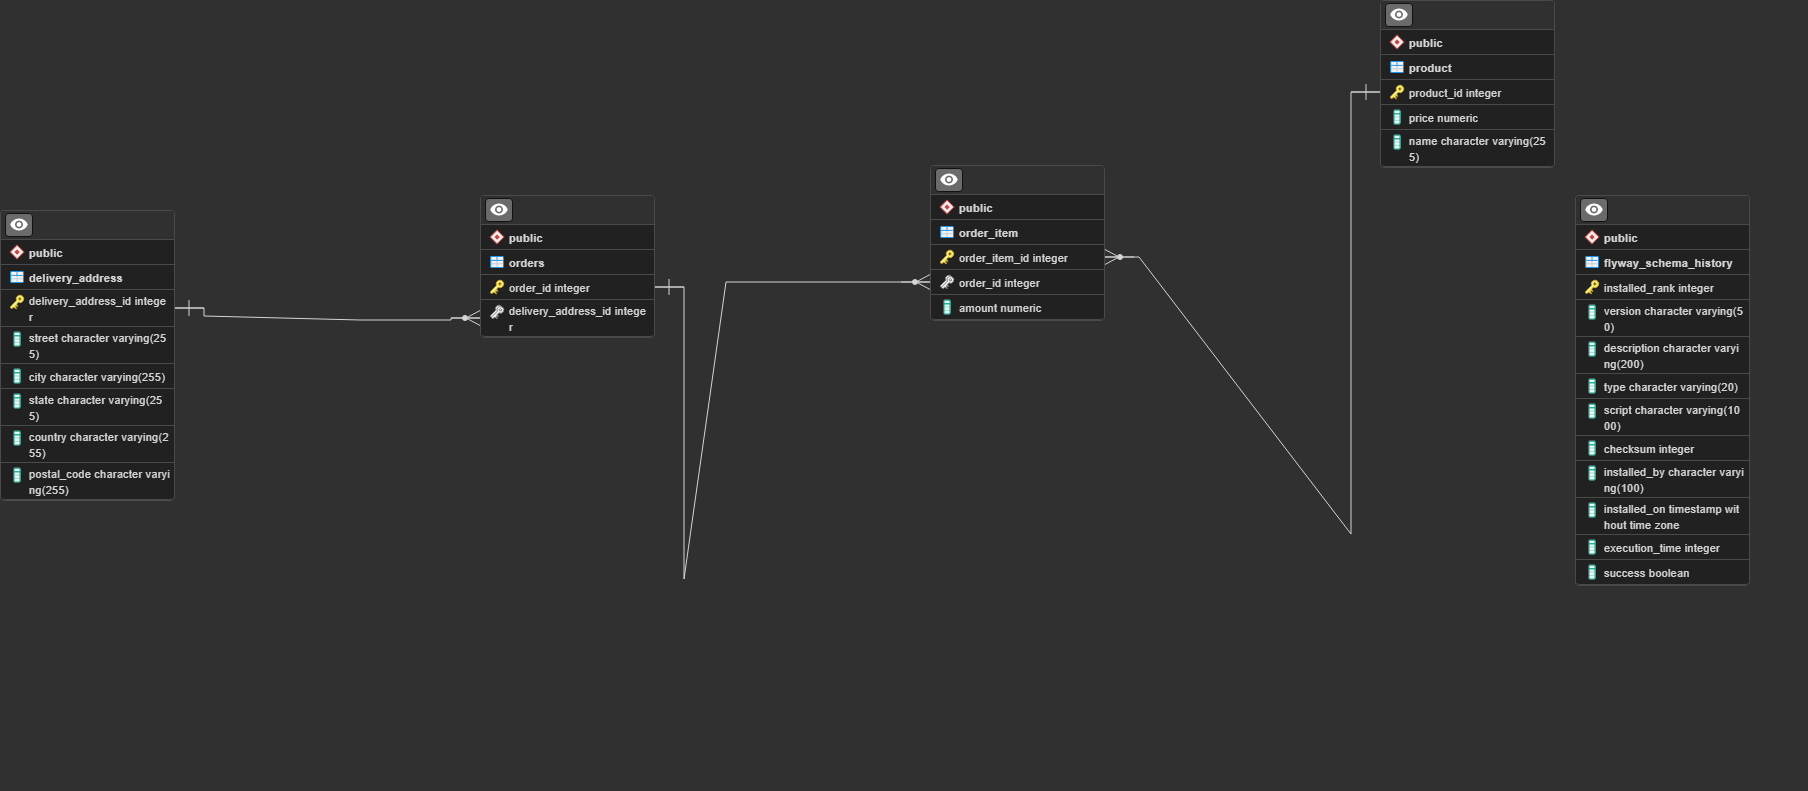
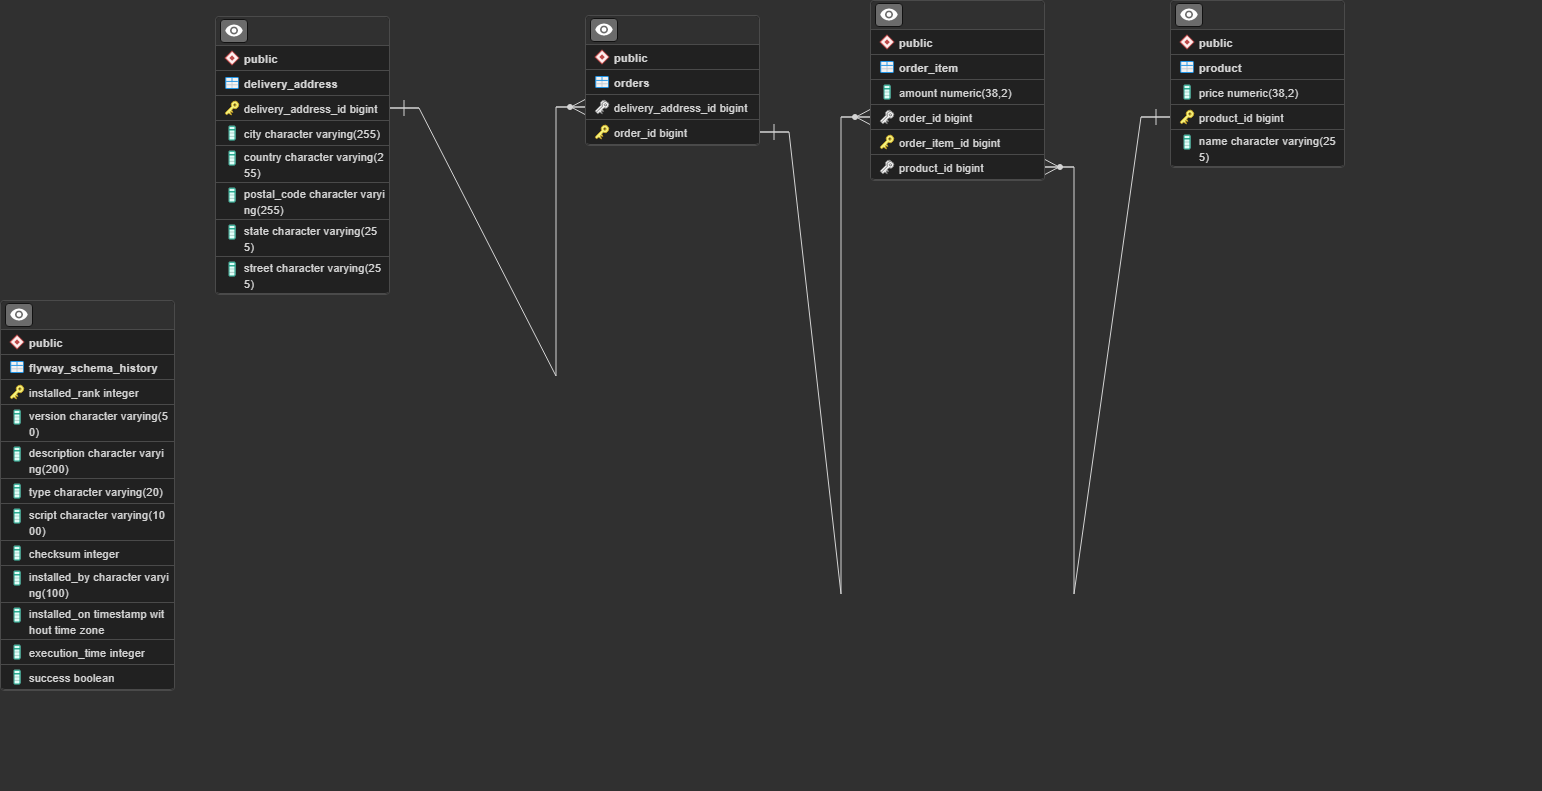
Change relationship in one product to many order items (#1)
* changed relationship into One Product to Many OrderItems

* updated flyway scripts and added new ERD and JPA images

* updated flyway scripts

---------

diff --git a/microservices/order-service/src/main/java/project/orderservice/model/OrderItem.java b/microservices/order-service/src/main/java/project/orderservice/model/OrderItem.java
@@ -1,14 +1,6 @@
 package project.orderservice.model;
 
-import jakarta.persistence.Column;
-import jakarta.persistence.Entity;
-import jakarta.persistence.FetchType;
-import jakarta.persistence.Id;
-import jakarta.persistence.JoinColumn;
-import jakarta.persistence.ManyToOne;
-import jakarta.persistence.MapsId;
-import jakarta.persistence.OneToOne;
-import jakarta.persistence.Table;
+import jakarta.persistence.*;
 import java.math.BigDecimal;
 import lombok.AllArgsConstructor;
 import lombok.Builder;
@@ -22,15 +14,8 @@ import lombok.NoArgsConstructor;
 @Builder
 @Data
 public class OrderItem {
-
-  // Product's PK will also be OrderItem's PK.
-  // In OrderItem table, we have Product as FK which is OrderItem's PK
-  // Both tables are sharing the same PKs
-  // this is good for performance in OneToOne
-  // PK and FK columns are most often indexed, so sharing the PK can reduce the index footprint by
-  // half, which is desirable since you want to store all your indexes into memory to speed up index
-  // scanning.
   @Id
+  @GeneratedValue(strategy = GenerationType.IDENTITY)
   @Column(name = "order_item_id")
   private Long id;
 
@@ -41,9 +26,8 @@ public class OrderItem {
   @JoinColumn(name = "order_id")
   private Order order;
 
-  @OneToOne(fetch = FetchType.LAZY)
-  @MapsId
-  @JoinColumn(name = "order_item_id")
+  @ManyToOne(fetch = FetchType.LAZY)
+  @JoinColumn(name = "product_id")
   // @EqualsAndHashCode.Exclude
   // @ToString.Exclude
   private Product product;

diff --git a/microservices/order-service/src/main/java/project/orderservice/model/Product.java b/microservices/order-service/src/main/java/project/orderservice/model/Product.java
@@ -1,12 +1,9 @@
 package project.orderservice.model;
 
-import jakarta.persistence.Column;
-import jakarta.persistence.Entity;
-import jakarta.persistence.GeneratedValue;
-import jakarta.persistence.GenerationType;
-import jakarta.persistence.Id;
-import jakarta.persistence.Table;
+import jakarta.persistence.*;
 import java.math.BigDecimal;
+import java.util.ArrayList;
+import java.util.List;
 import lombok.AllArgsConstructor;
 import lombok.Builder;
 import lombok.Data;
@@ -30,4 +27,17 @@ public class Product {
 
   @Column(name = "price")
   private BigDecimal price;
+
+  @OneToMany(mappedBy = "product", fetch = FetchType.LAZY, orphanRemoval = true)
+  private List<OrderItem> orderItemList = new ArrayList<>();
+
+  public void addOrderItem(OrderItem orderItem) {
+    orderItemList.add(orderItem);
+    orderItem.setProduct(this);
+  }
+
+  public void removeOrderItem(OrderItem orderItem) {
+    getOrderItemList().remove(orderItem);
+    orderItem.setProduct(null);
+  }
 }

diff --git a/microservices/order-service/src/main/java/project/orderservice/model/Order.java b/microservices/order-service/src/main/java/project/orderservice/model/Order.java
@@ -1,6 +1,5 @@
 package project.orderservice.model;
 
-import jakarta.persistence.CascadeType;
 import jakarta.persistence.Column;
 import jakarta.persistence.Entity;
 import jakarta.persistence.FetchType;
@@ -35,11 +34,7 @@ public class Order {
   @JoinColumn(name = "delivery_address_id", nullable = false)
   private DeliveryAddress deliveryAddress;
 
-  @OneToMany(
-      mappedBy = "order",
-      fetch = FetchType.LAZY,
-      cascade = CascadeType.ALL,
-      orphanRemoval = true)
+  @OneToMany(mappedBy = "order", fetch = FetchType.LAZY, orphanRemoval = true)
   private Set<OrderItem> orderItemList = new HashSet<>();
 
   public void addOrderItem(OrderItem orderItem) {
